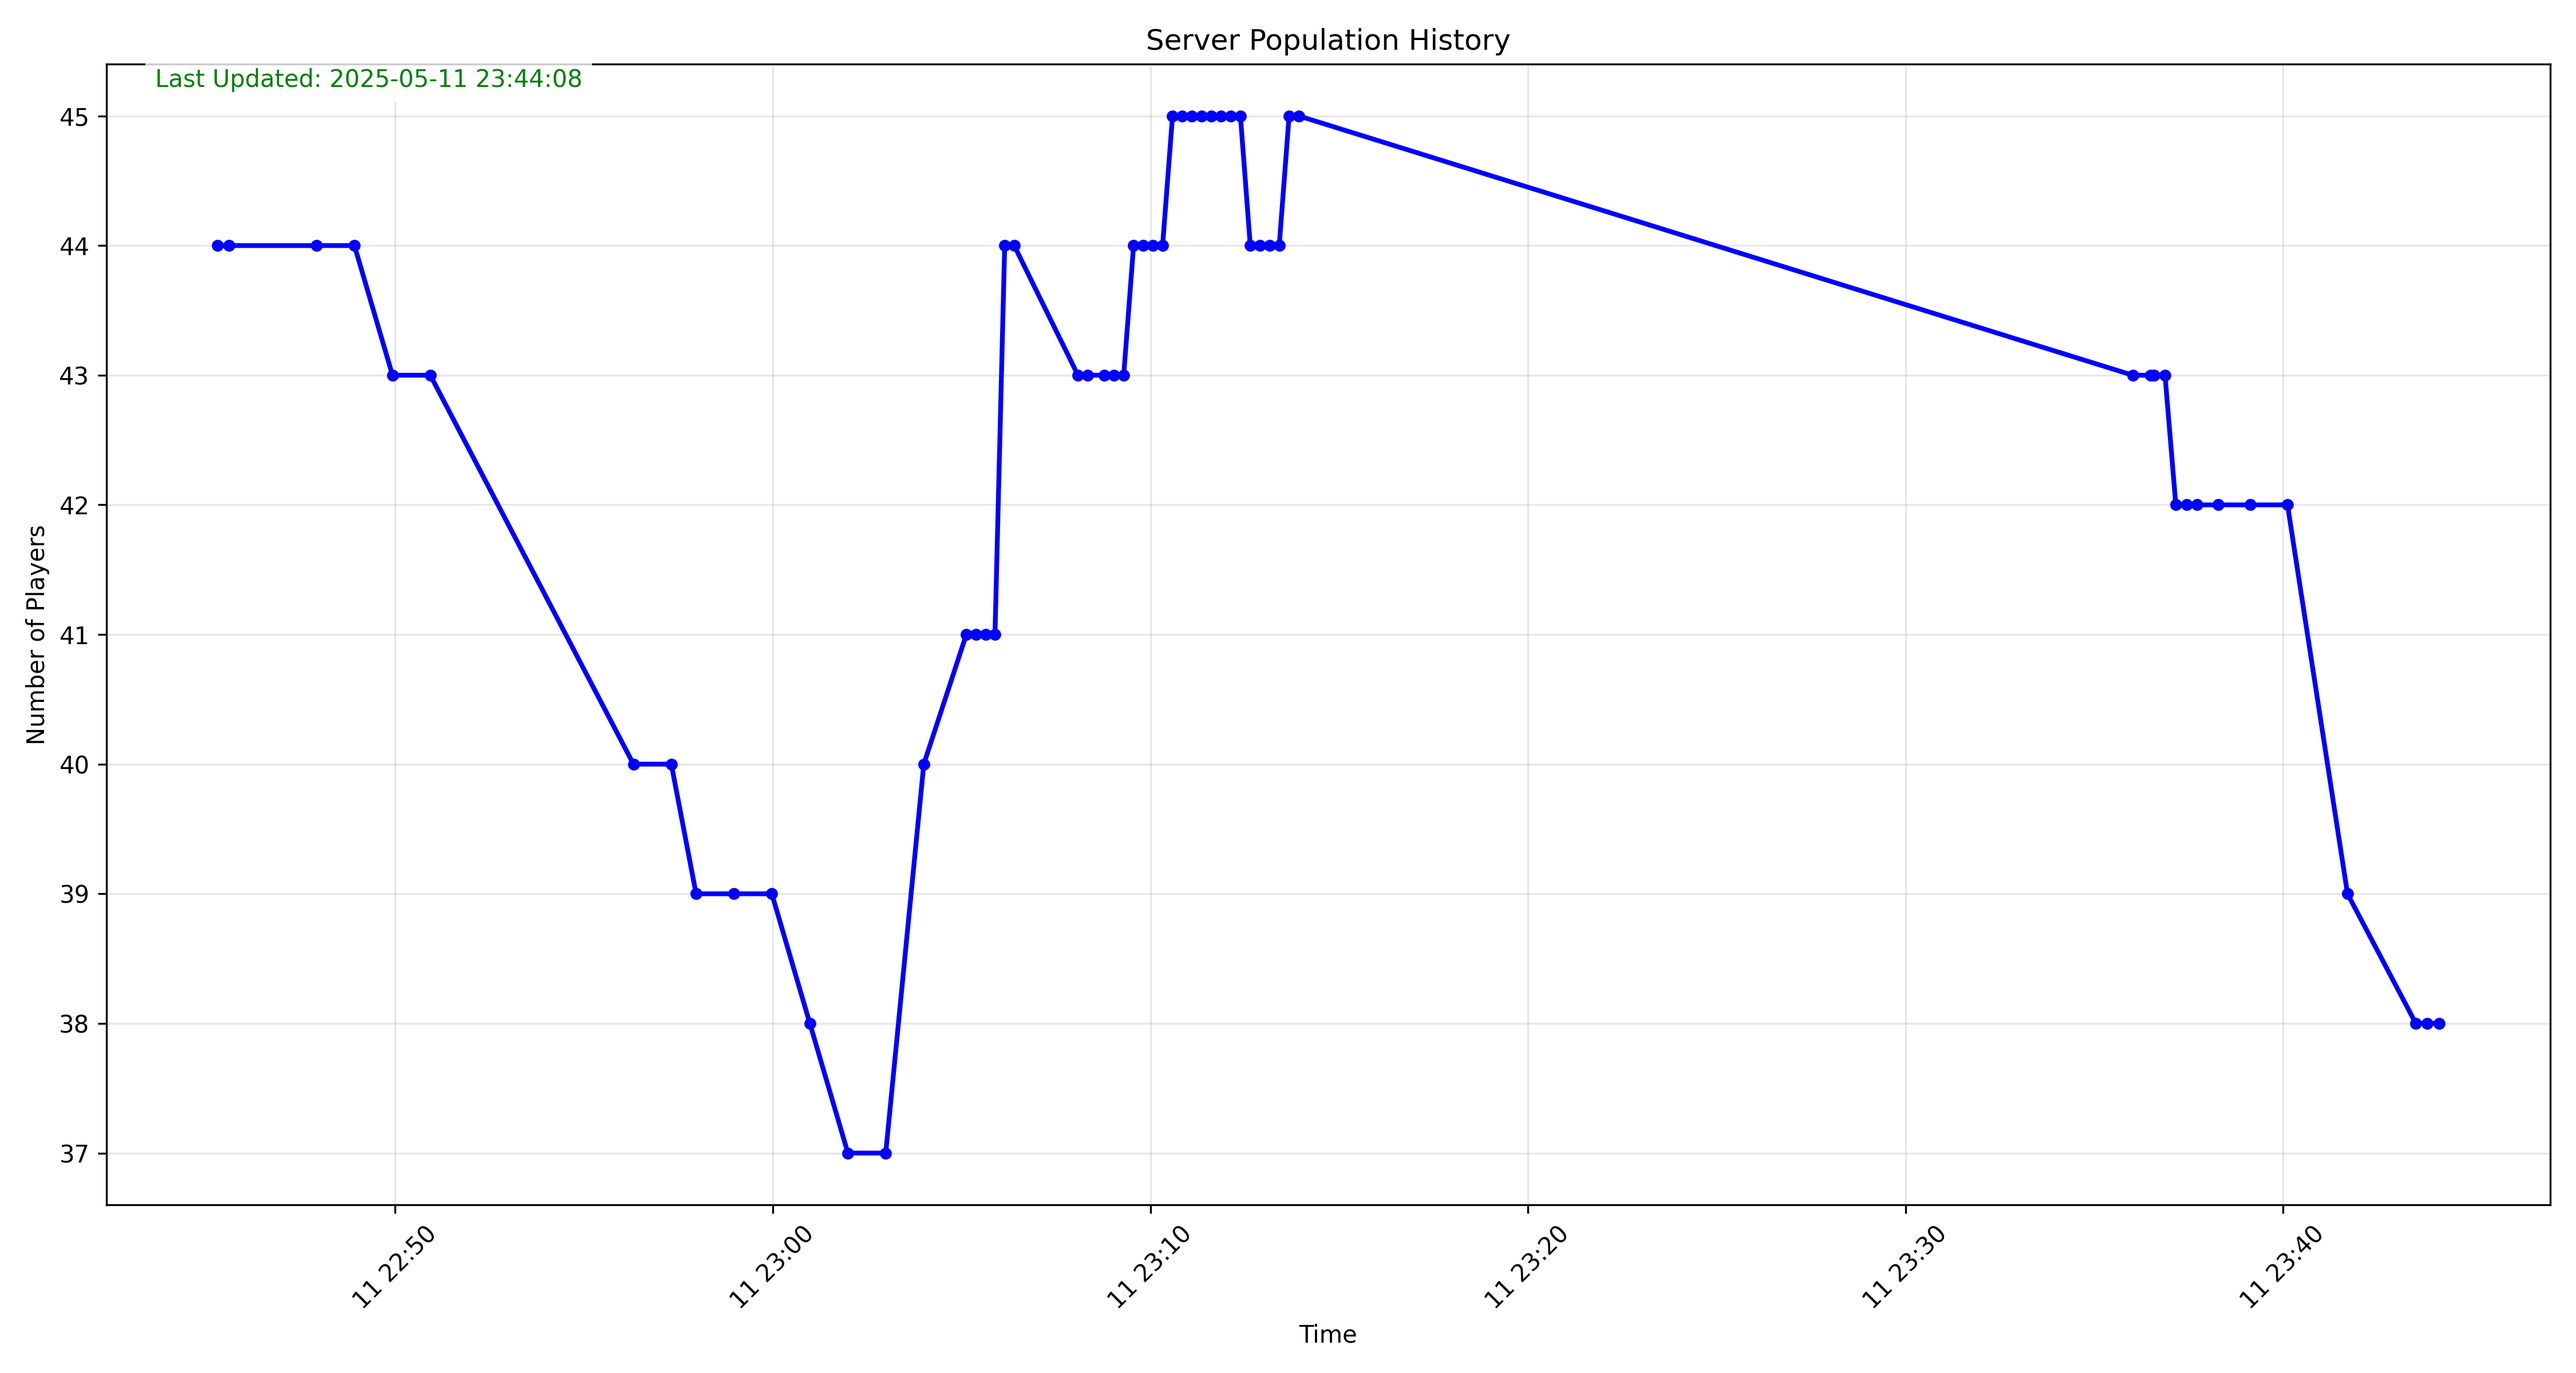
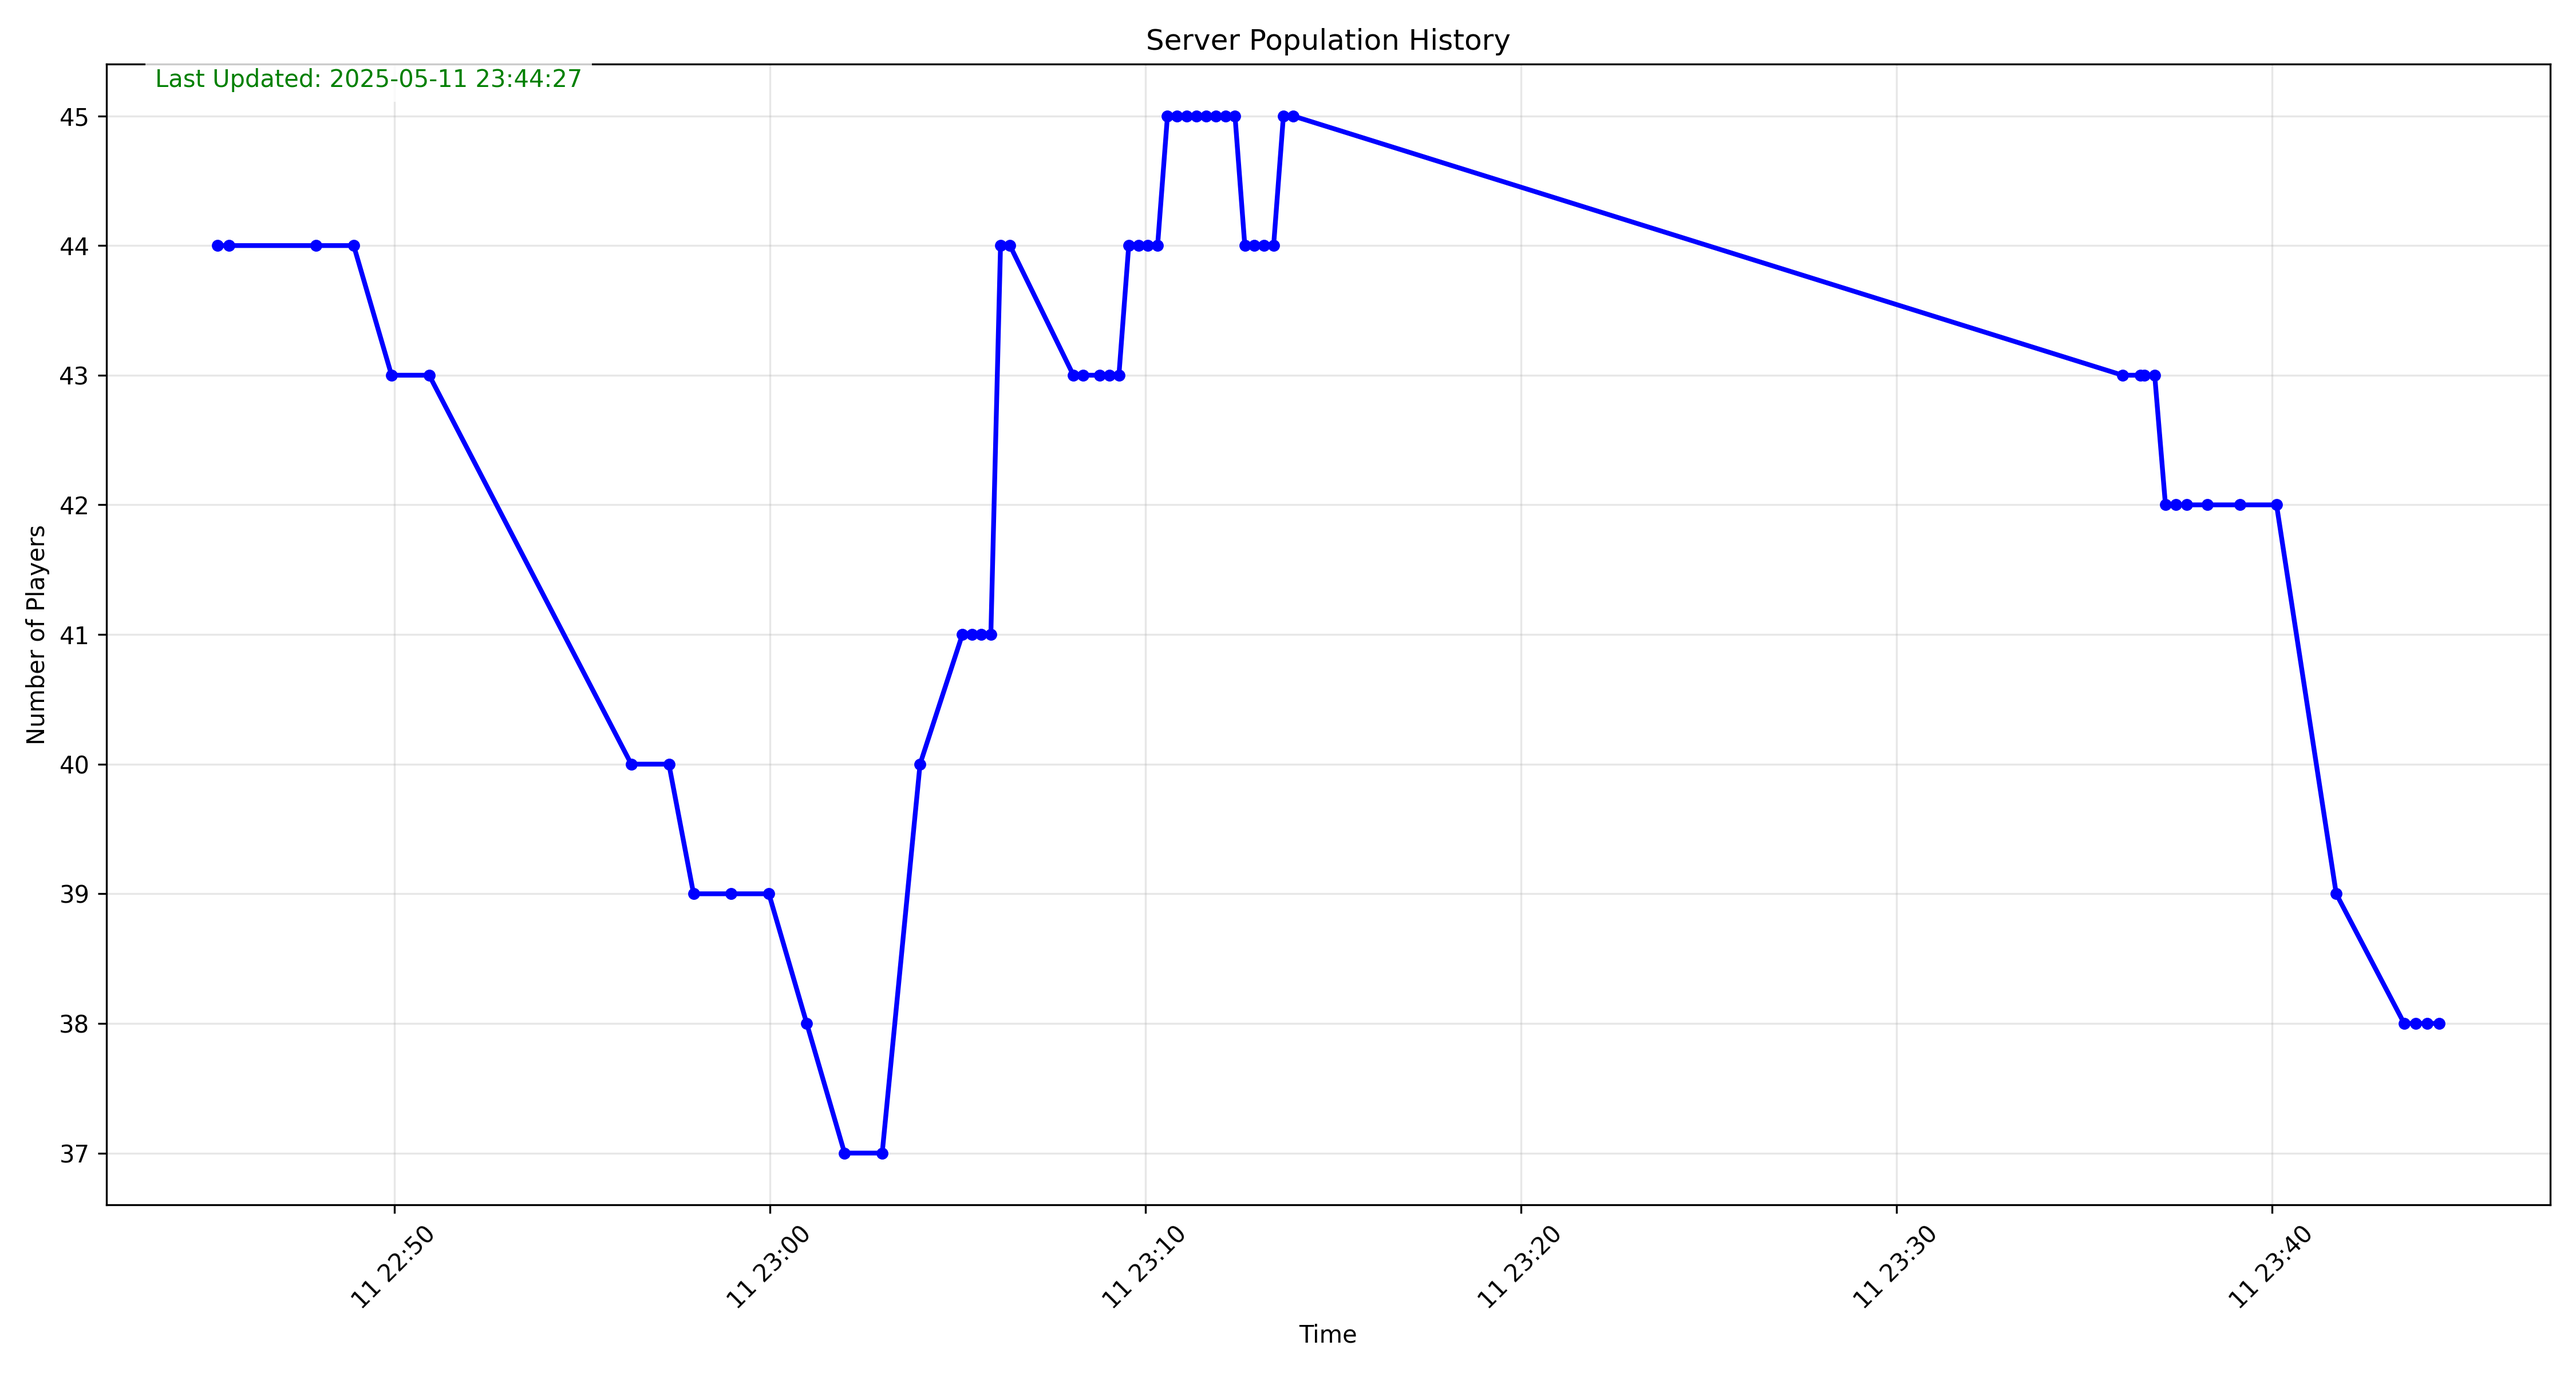
Update graph 2025-05-11 23:44:28

diff --git a/index.html b/index.html
@@ -9,7 +9,7 @@
             </style>
         </head>
         <body>
-            <div class="update-time">Last Updated: 2025-05-11 23:44:09</div>
+            <div class="update-time">Last Updated: 2025-05-11 23:44:28</div>
             <img src="server_population.png" alt="Server Population Graph">
         </body>
         </html>
